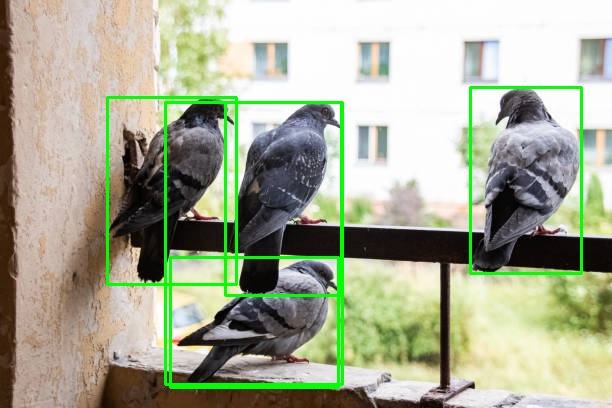
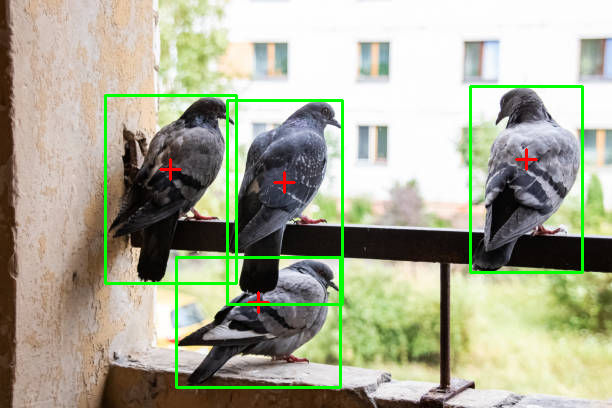
wrote the performance checks

diff --git a/Inference/main.py b/Inference/main.py
@@ -1,29 +1,33 @@
 from ultralytics import YOLO
 import cv2
-import time 
+import time
 
-# 👉 “yolov9t.pt” is the tiny model – fastest to test.
+#  “yolov9t.pt” is the tiny model – fastest to test.
 #     Swap in your own .pt / .onnx / .engine weight file once you have it.
-model = YOLO("yolov9t.pt")
+model = YOLO("yolov8n.pt")
 
 
 # --- 3a. Single image -------------------------------------------------
 start = time.time()
-source_path = "images/input.png"       # any image file
-results = model(source_path, imgsz=512)           # returns a list (len == #images); here 1
-r = results[0]
+source_path = "images/input.png"  # any image file
+L = 100
+for i in range(L):  # repeat for performance testing
+    print(f"Processing {source_path} ({i + 1}/{L}) ...")
+    results = model(source_path)  # returns a list (len == #images); here 1
+    r = results[0]
 
-# r.boxes.xyxy  -> (N,4) tensor of [x1, y1, x2, y2] in *pixel* coords
-# r.boxes.cls   -> (N,)  tensor of class indices
-# r.boxes.conf  -> (N,)  tensor of confidences 0–1
-for box, cls, conf in zip(r.boxes.xyxy, r.boxes.cls, r.boxes.conf):
-    class_name = model.names[int(cls)]
-    if class_name in ("pigeon", "bird"):         # keep only the classes you care about
-        x1, y1, x2, y2 = [int(v) for v in box]   # cast tensor → int
-        print(f"{class_name:6s}  {conf:.2f}  @  [{x1},{y1}]-[{x2},{y2}]")
+    # r.boxes.xyxy  -> (N,4) tensor of [x1, y1, x2, y2] in *pixel* coords
+    # r.boxes.cls   -> (N,)  tensor of class indices
+    # r.boxes.conf  -> (N,)  tensor of confidences 0–1
+    for box, cls, conf in zip(r.boxes.xyxy, r.boxes.cls, r.boxes.conf):
+        class_name = model.names[int(cls)]
+        if class_name in ("pigeon", "bird"):  # keep only the classes you care about
+            x1, y1, x2, y2 = [int(v) for v in box]  # cast tensor → int
+            print(f"{class_name:6s}  {conf:.2f}  @  [{x1},{y1}]-[{x2},{y2}]")
 
 end = time.time()
 print(f"Processing time: {end - start:.2f} seconds")
+print(f"Average time per image: {(end - start) / (L): .2f} seconds")
 # --- 3b. Folder / webcam / RTSP ---------------------------------------
 # results = model("images/", stream=False)       # folder
 # results = model(0, stream=True)                # webcam
@@ -31,7 +35,23 @@ print(f"Processing time: {end - start:.2f} seconds")
 img = cv2.imread(source_path)
 for box, cls in zip(r.boxes.xyxy, r.boxes.cls):
     if model.names[int(cls)] in ("pigeon", "bird"):
-        x1,y1,x2,y2 = [int(v) for v in box]
-        cv2.rectangle(img, (x1, y1), (x2, y2), thickness=2, color=(0,255,0))
+        x1, y1, x2, y2 = [int(v) for v in box]
+        cv2.rectangle(img, (x1, y1), (x2, y2), thickness=2, color=(0, 255, 0))
+        # create cross hair at the center of the box
+        center_x = (x1 + x2) // 2
+        center_y = (y1 + y2) // 2 - 20
+        cv2.line(
+            img,
+            (center_x - 10, center_y),
+            (center_x + 10, center_y),
+            color=(0, 0, 255),
+            thickness=2,
+        )
+        cv2.line(
+            img,
+            (center_x, center_y - 10),
+            (center_x, center_y + 10),
+            color=(0, 0, 255),
+            thickness=2,
+        )
 cv2.imwrite("images/output.png", img)
-
